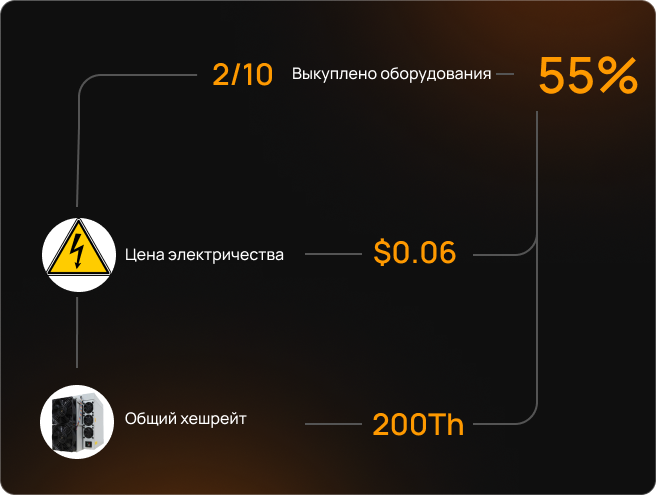
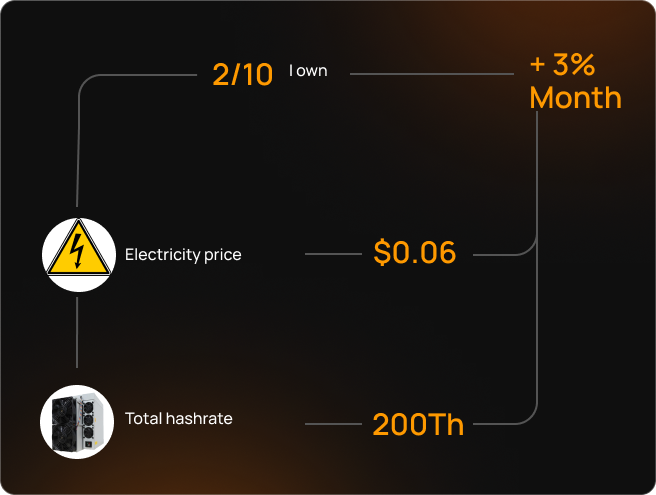
замена картинок на странице клауд-майнинг

diff --git a/src/components/PageComponents/CloudMiningPage/ForWho.tsx b/src/components/PageComponents/CloudMiningPage/ForWho.tsx
@@ -1,9 +1,10 @@
 import Image from 'next/image';
 import Link from 'next/link';
-import { useTranslations } from 'next-intl';
+import { useTranslations, useLocale } from 'next-intl';
 
 export default function ForWhoSection() {
   const t = useTranslations('cloudMiningPage.forWho');
+  const currentLocale = useLocale();
 
   return (
     <section className='py-[30px] lg:pt-[100px]'>
@@ -68,7 +69,7 @@ export default function ForWhoSection() {
 
                   {/* Кнопка */}
                   <Link
-                    href='https://onelink.to/js2s8h'
+                    href={`/${currentLocale}/signin`}
                     target='_blank'
                     rel='noopener noreferrer'
                     className='hidden rounded-full border px-5 py-3 text-font18 font-bold leading-[110%] transition delay-200 hover:border-[#FD6B06] hover:bg-[#FD6B06] hover:text-white focus:bg-[#FD6B06] focus:text-white lg:inline-block'

diff --git a/src/components/PageComponents/CloudMiningPage/HowItWorks.tsx b/src/components/PageComponents/CloudMiningPage/HowItWorks.tsx
@@ -70,8 +70,8 @@ export default function HowItWorksSection() {
           </div>
           <div>
             <Image
-              src='/ref_client.png'
-              alt='Referral client'
+              src='/cloud_mining_howitworks.webp'
+              alt='How it works'
               width={670}
               height={560}
               className='w-full lg:h-[560px] lg:w-[670px]'
